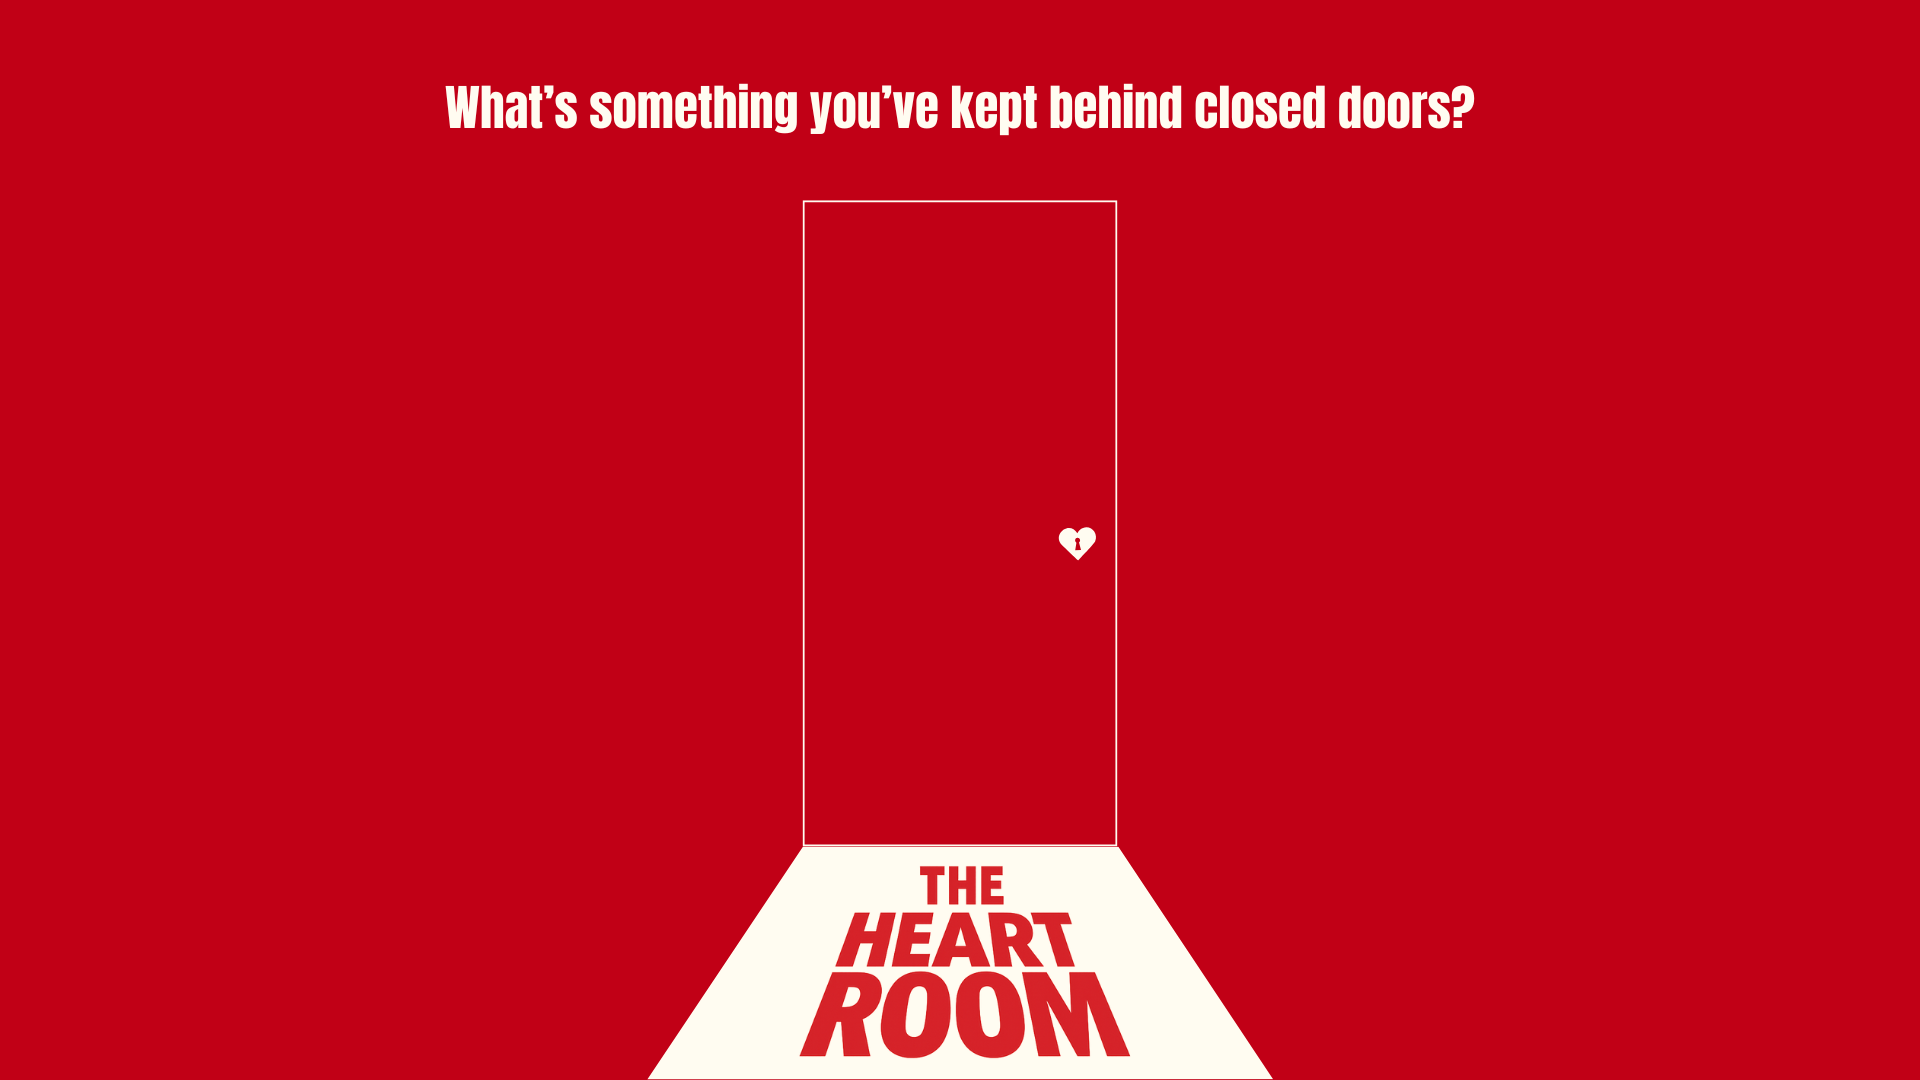
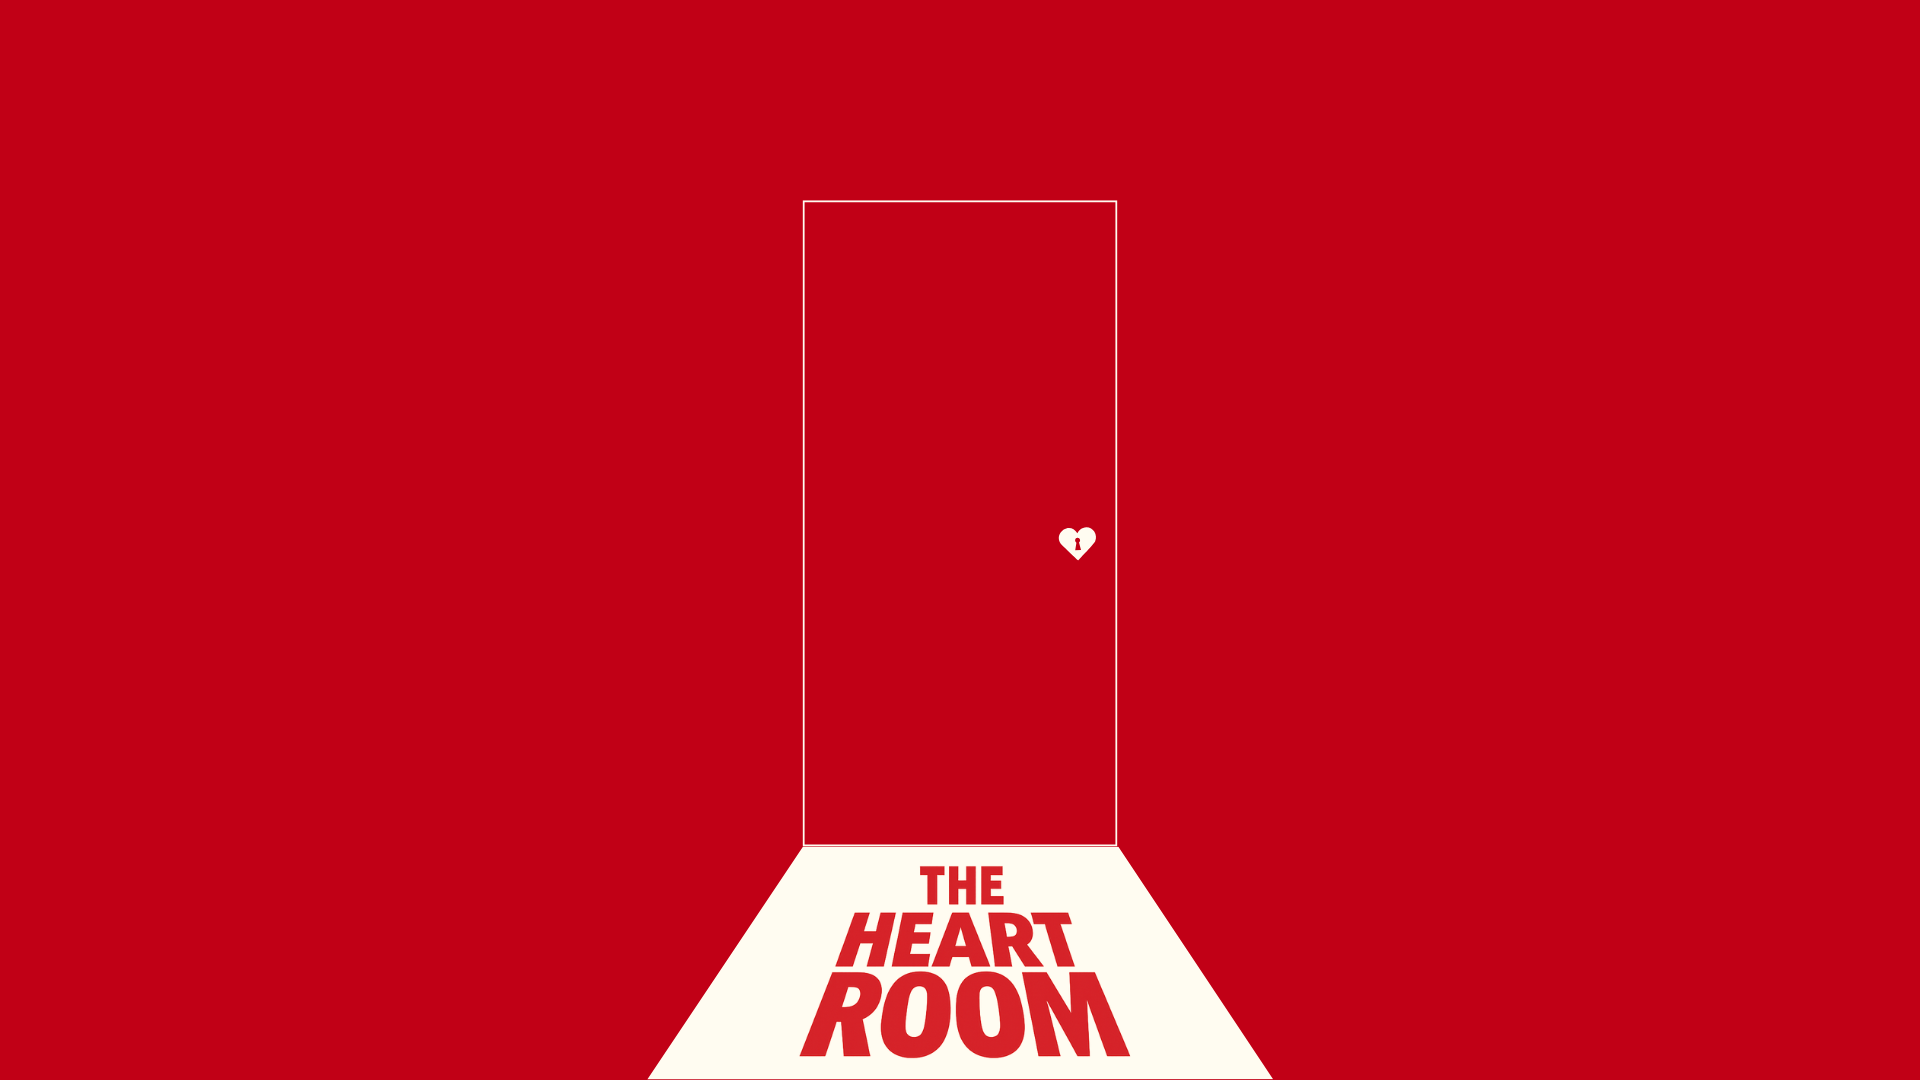
May 16 6:15pm added popup newsletter, sent data to google sheets

Changed region(s): [[0.2188, 0.0611, 0.7812, 0.1222]]

diff --git a/index.html b/index.html
@@ -76,15 +76,19 @@
             
             <div class="newsletter">
                 <h3>SIGN UP FOR UPDATES AND MERCH DROPS AND MORE</h3>
-                <form class="signup-form">
+                <form class="signup-form" id="signupForm" action="https://docs.google.com/forms/d/e/1FAIpQLSdMfNDBBsnuE2Q1_Gn57Y_FJmpWTw0h00bTStNd5Bju07mTKA/formResponse" method="POST" target="hidden-iframe">
                     <div class="form-group">
-                        <input type="email" placeholder="Email" required>
+                        <input type="email" name="entry.649844771" placeholder="Email" required>
                     </div>
                     <div class="form-group">
-                        <input type="tel" placeholder="Phone (optional)">
+                        <input type="tel" name="entry.673635167" placeholder="Phone (optional)">
                     </div>
                     <button type="submit" class="btn btn-primary">Sign Up</button>
                 </form>
+                <iframe name="hidden-iframe" style="display:none;"></iframe>
+                <div id="form-success" style="display: none; margin-top: 1rem; color: #4CAF50; text-align: center;">
+                    Thank you for signing up!
+                </div>
             </div>
             
             <div class="copyright">
@@ -92,5 +96,136 @@
             </div>
         </div>
     </footer>
+    <div id="signup-popup" class="modal-popup" style="display:none;">
+        <div class="modal-content">
+            <button class="modal-close" aria-label="Close popup" onclick="closePopup()">&times;</button>
+            <h3 class="modal-title">SIGN UP FOR UPDATES AND MERCH DROPS AND MORE</h3>
+            <form class="signup-form popup-form" id="popupSignupForm" action="https://docs.google.com/forms/d/e/1FAIpQLSdMfNDBBsnuE2Q1_Gn57Y_FJmpWTw0h00bTStNd5Bju07mTKA/formResponse" method="POST" target="hidden-iframe">
+                <div class="form-group">
+                    <input type="email" name="entry.649844771" placeholder="Email" required>
+                </div>
+                <div class="form-group">
+                    <input type="tel" name="entry.673635167" placeholder="Phone (optional)">
+                </div>
+                <button type="submit" class="btn btn-primary">Sign Up</button>
+            </form>
+            <div id="popup-form-success" style="display: none; margin-top: 1rem; color: #4CAF50; text-align: center;">
+                Thank you for signing up!
+            </div>
+        </div>
+    </div>
+    <style>
+    .modal-popup {
+        position: fixed;
+        top: 0; left: 0; right: 0; bottom: 0;
+        background: rgba(0,0,0,0.45);
+        z-index: 9999;
+        display: flex;
+        align-items: center;
+        justify-content: center;
+        font-family: 'DM Sans', 'Anton', sans-serif;
+    }
+    .modal-content {
+        background: #fff;
+        border-radius: 12px;
+        box-shadow: 0 8px 32px rgba(0,0,0,0.18);
+        padding: 2.5rem 2rem 2rem 2rem;
+        max-width: 95vw;
+        width: 100%;
+        max-width: 400px;
+        position: relative;
+        text-align: center;
+    }
+    .modal-title {
+        font-family: 'Anton', sans-serif;
+        font-size: 1.3rem;
+        color: #000000;
+        margin-bottom: 1.5rem;
+        letter-spacing: 1px;
+        text-transform: uppercase;
+    }
+    .modal-close {
+        position: absolute;
+        top: 1rem;
+        right: 1rem;
+        background: none;
+        border: none;
+        font-size: 2rem;
+        color: #c10016;
+        cursor: pointer;
+        transition: color 0.2s;
+    }
+    .modal-close:hover {
+        color: #a20013;
+    }
+    .popup-form .btn {
+        width: 100%;
+        margin-top: 0.5rem;
+    }
+    @media (max-width: 600px) {
+        .modal-content {
+            padding: 1.2rem 0.5rem 1.5rem 0.5rem;
+            max-width: 98vw;
+        }
+        .modal-title {
+            font-size: 1.05rem;
+        }
+    }
+    </style>
+    <script>
+    // Popup logic
+    function closePopup() {
+        document.getElementById('signup-popup').style.display = 'none';
+        // Set flag in localStorage for 30 days
+        var expire = new Date();
+        expire.setDate(expire.getDate() + 30);
+        localStorage.setItem('hm_popup_closed', expire.getTime());
+    }
+    function shouldShowPopup() {
+        var closedUntil = localStorage.getItem('hm_popup_closed');
+        if (!closedUntil) return true;
+        return new Date().getTime() > parseInt(closedUntil);
+    }
+    window.addEventListener('DOMContentLoaded', function() {
+        if (shouldShowPopup()) {
+            setTimeout(function() {
+                document.getElementById('signup-popup').style.display = 'flex';
+            }, 5000); // Show after 5 seconds
+        }
+    });
+    // Popup form submission
+    document.getElementById('popupSignupForm').addEventListener('submit', function(e) {
+        var form = this;
+        var submitButton = form.querySelector('button[type="submit"]');
+        submitButton.disabled = true;
+        submitButton.textContent = 'Submitting...';
+        setTimeout(function() {
+            form.reset();
+            submitButton.disabled = false;
+            submitButton.textContent = 'Sign Up';
+            document.getElementById('popup-form-success').style.display = 'block';
+            setTimeout(function() {
+                document.getElementById('popup-form-success').style.display = 'none';
+                closePopup();
+            }, 2500);
+        }, 1200);
+    });
+    // Existing footer form logic
+    document.getElementById('signupForm').addEventListener('submit', function(e) {
+        var form = this;
+        var submitButton = form.querySelector('button[type="submit"]');
+        submitButton.disabled = true;
+        submitButton.textContent = 'Submitting...';
+        setTimeout(function() {
+            form.reset();
+            submitButton.disabled = false;
+            submitButton.textContent = 'Sign Up';
+            document.getElementById('form-success').style.display = 'block';
+            setTimeout(function() {
+                document.getElementById('form-success').style.display = 'none';
+            }, 5000);
+        }, 1200);
+    });
+    </script>
 </body>
 </html> 

diff --git a/theheartroom.html b/theheartroom.html
@@ -10,6 +10,13 @@
     <link href="https://fonts.googleapis.com/css2?family=Anton&family=DM+Sans:opsz,wght@9..40,400;9..40,500;9..40,600&display=swap" rel="stylesheet">
     <link rel="stylesheet" href="https://cdnjs.cloudflare.com/ajax/libs/font-awesome/6.5.1/css/all.min.css">
     <link rel="stylesheet" href="style.css">
+    <style>
+        .btn-primary.share-story-cta:hover {
+            background: #7a0010 !important;
+            color: #fff !important;
+            transition: background 0.2s;
+        }
+    </style>
 </head>
 <body>
     <header>
@@ -28,6 +35,7 @@
 
     <main>
         <section id="show-hero">
+            <h1 style="color: #fffcf1; text-align: center; font-size: 2.5rem; text-shadow: 0 2px 8px rgba(0,0,0,0.2); text-transform: none; margin-top: -40rem;">What's something you've kept behind closed doors?</h1>
         </section>
 
         <section id="show-description" style="background-color: #fffcf1; padding: 6rem 0 0 0; margin-bottom: 0;">
@@ -57,7 +65,7 @@
                     Come in. Say it out loud. Let it go.
                 </div>
                 <div style="width: 100%; display: flex; justify-content: center; align-items: center; margin-top: 16rem;">
-                    <a href="https://tally.so/r/mVypp6" target="_blank" rel="noopener noreferrer" class="btn btn-primary" style="font-size: 1.1rem; font-family: 'DM Sans', sans-serif; font-weight: 600; text-align: center; margin: 0; background: #a20013; color: #fff;">Share Your Story</a>
+                    <a href="https://tally.so/r/mVypp6" target="_blank" rel="noopener noreferrer" class="btn btn-primary share-story-cta" style="font-size: 1.1rem; font-family: 'DM Sans', sans-serif; font-weight: 600; text-align: center; margin: 0; background: #a20013; color: #fff;">Share Your Story</a>
                 </div>
             </div>
         </section>
